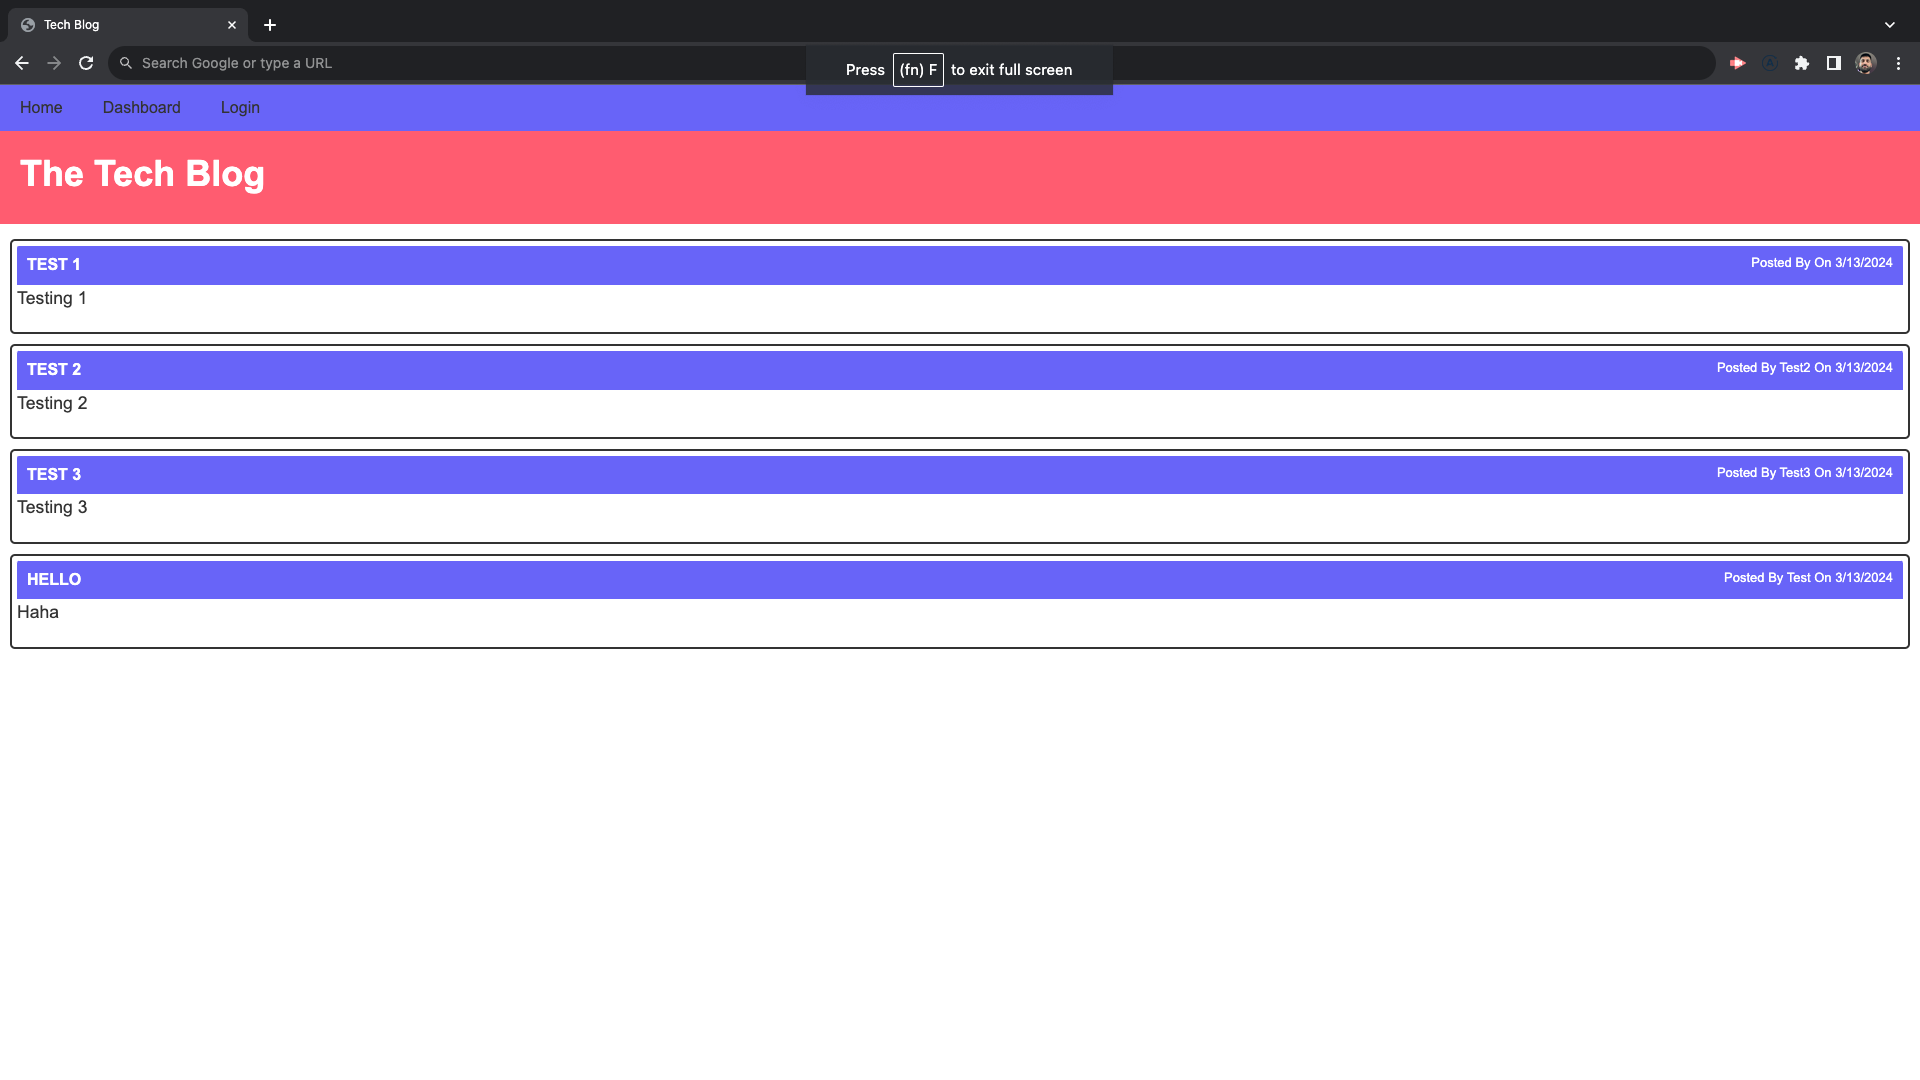
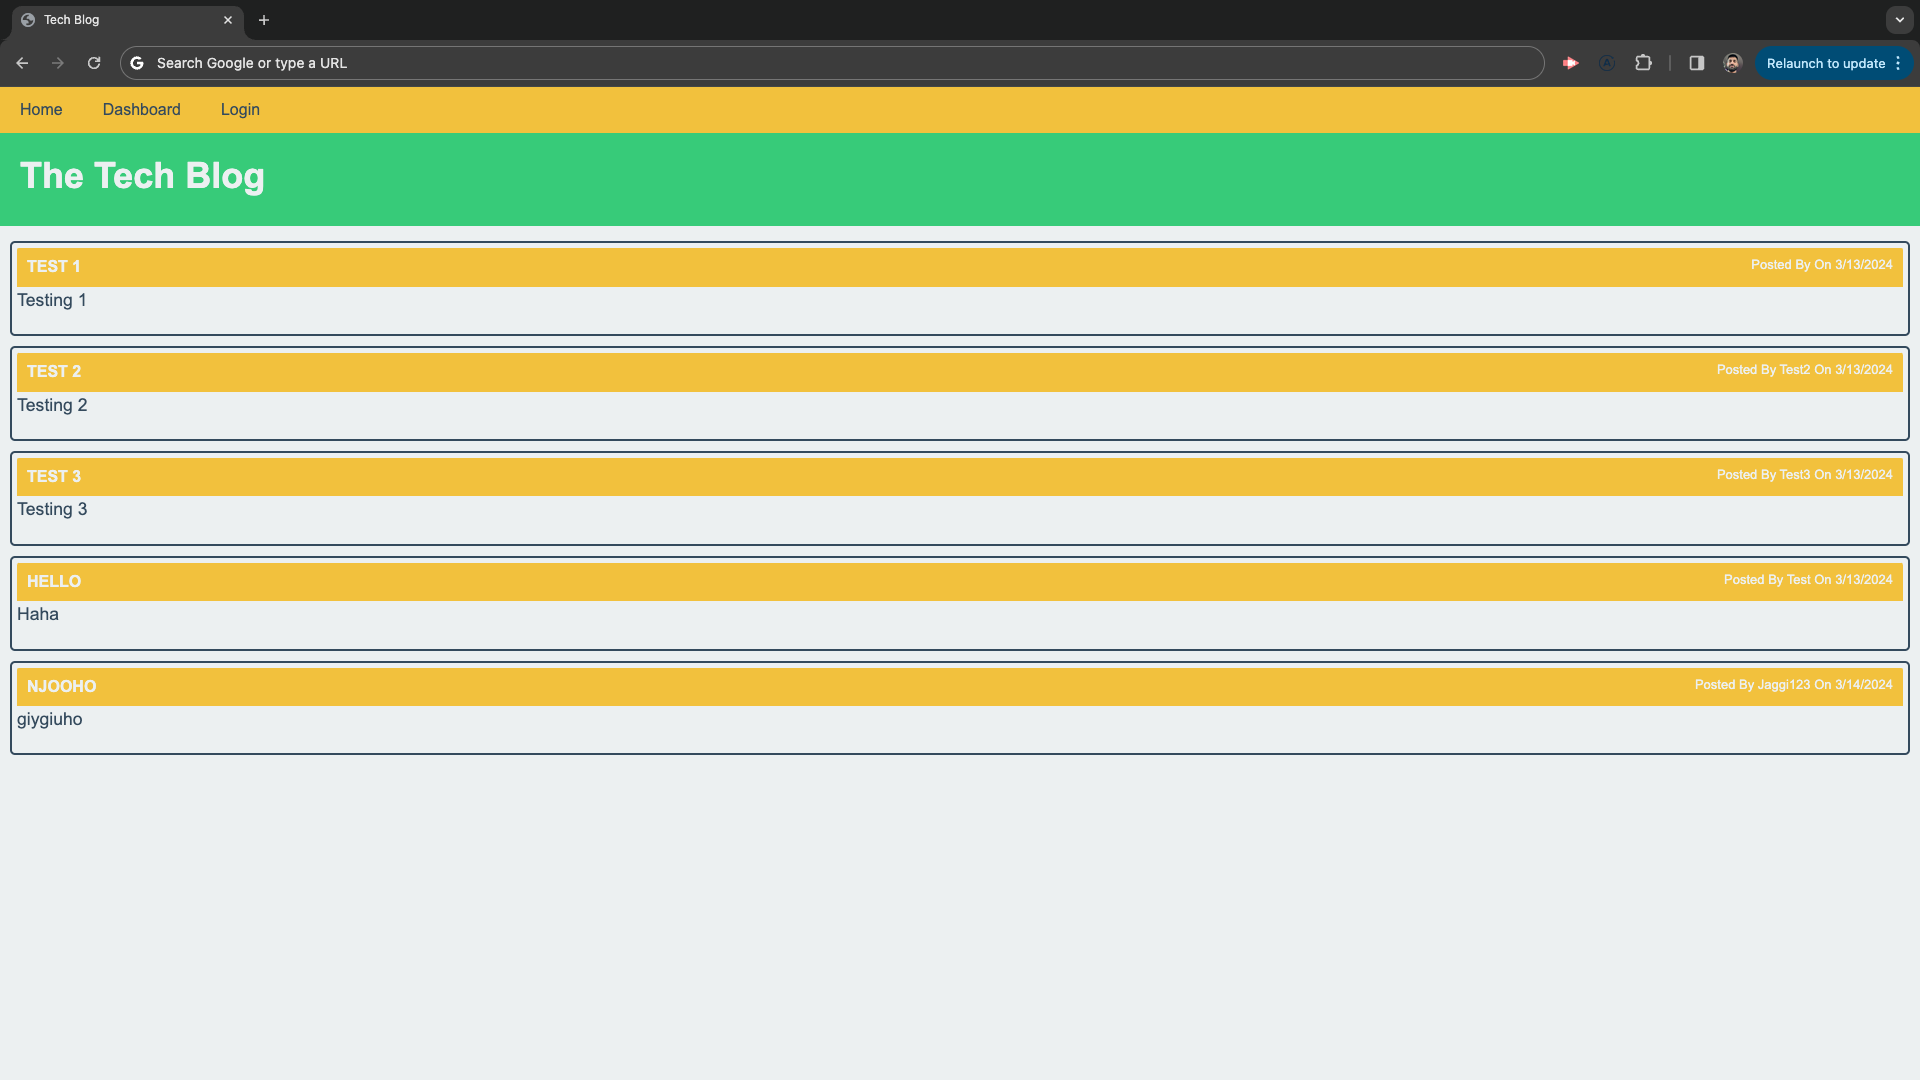
Made changes to the coloring of the app.

diff --git a/public/css/style.css b/public/css/style.css
@@ -1,22 +1,23 @@
 /* Color Variables */
 :root {
-  --primary: #FF5F6D;
-  /* Red */
-  --secondary: #FFE66D;
-  /* Yellow */
-  --tertiary: #6D5AFF;
-  /* Purple */
-  --quatrinary: #E8E8E8;
-  /* Light Grey */
-  --light: #FFFFFF;
-  /* White */
-  --dark: #333333;
-  /* Dark Grey */
-  --error: rgb(228, 46, 1);
-  /* Error Color */
+  --primary: #2ecc71;
+  /* Emerald */
+  --secondary: #3498db;
+  /* Belize Hole */
+  --tertiary: #f1c40f;
+  /* Sun Flower */
+  --quaternary: #e74c3c;
+  /* Alizarin */
+  --light: #ecf0f1;
+  /* Clouds */
+  --dark: #34495e;
+  /* Wet Asphalt */
+  --error: #e67e22;
+  /* Carrot */
   --border-radius: 5px;
   /* Border Radius */
 }
+
 
 /* Body Styles */
 body {

diff --git a/README.md b/README.md
@@ -16,6 +16,7 @@ After signing up and/or logging in, you can:
 * View and comment on posts from other bloggers
 
 ![Screenshot](./assets/ss.png)
+https://infinite-retreat-78041-f7a77362a32e.herokuapp.com
 
 ## License
 
